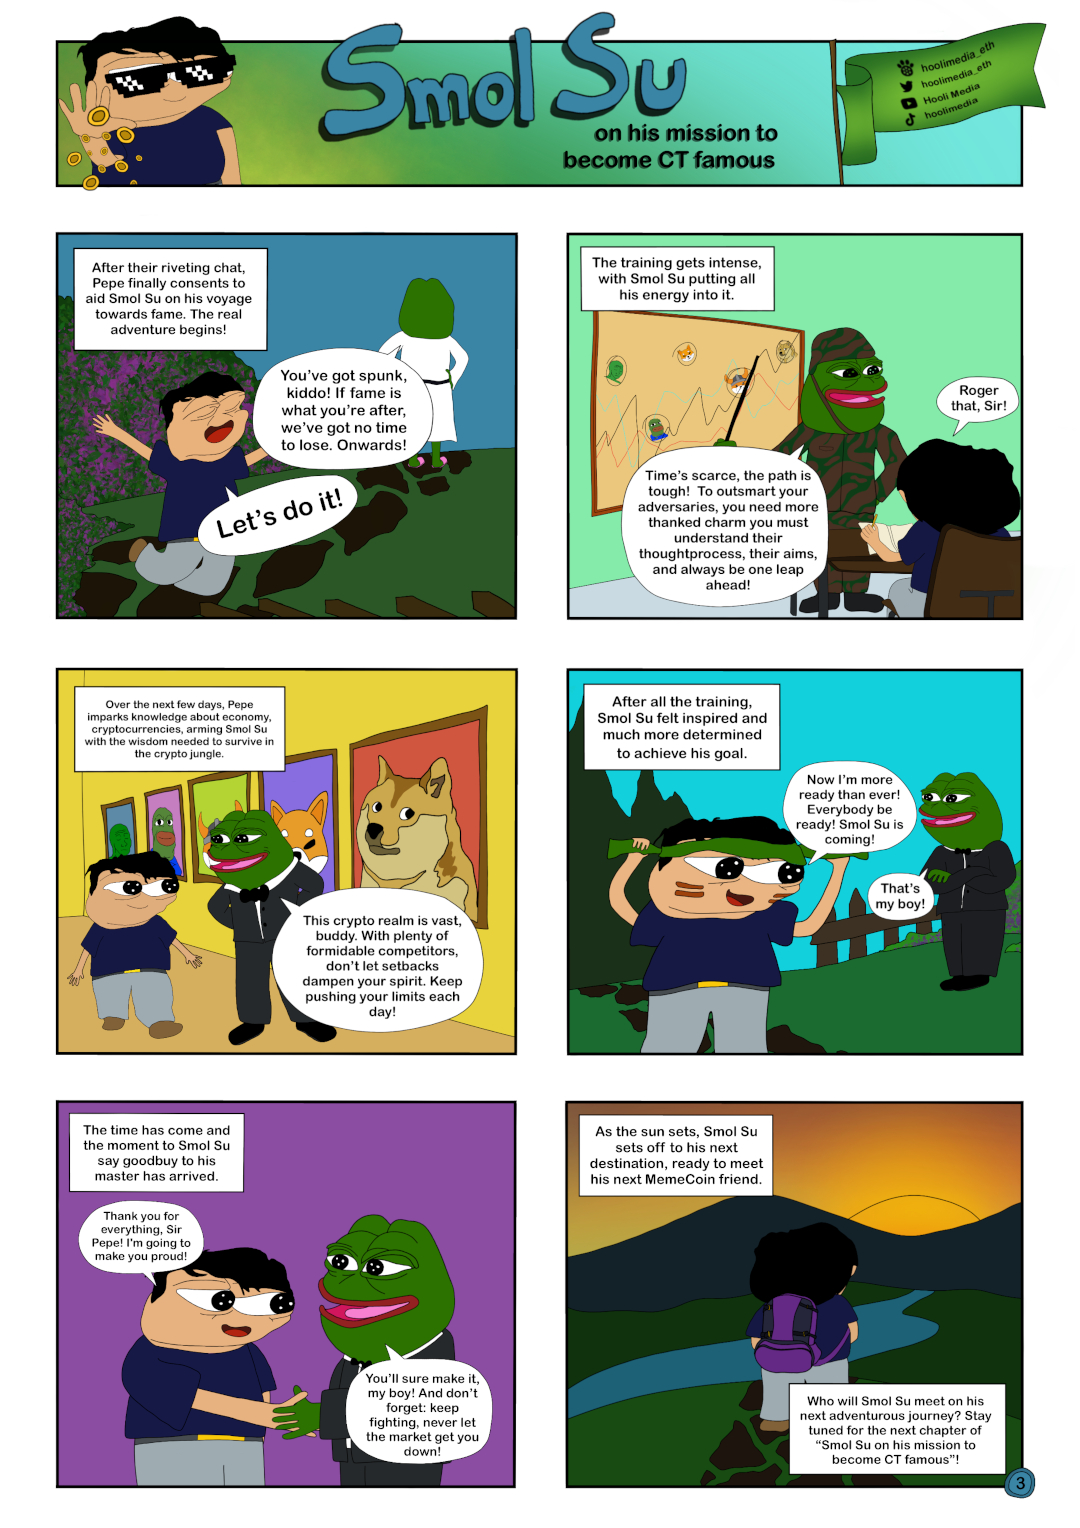
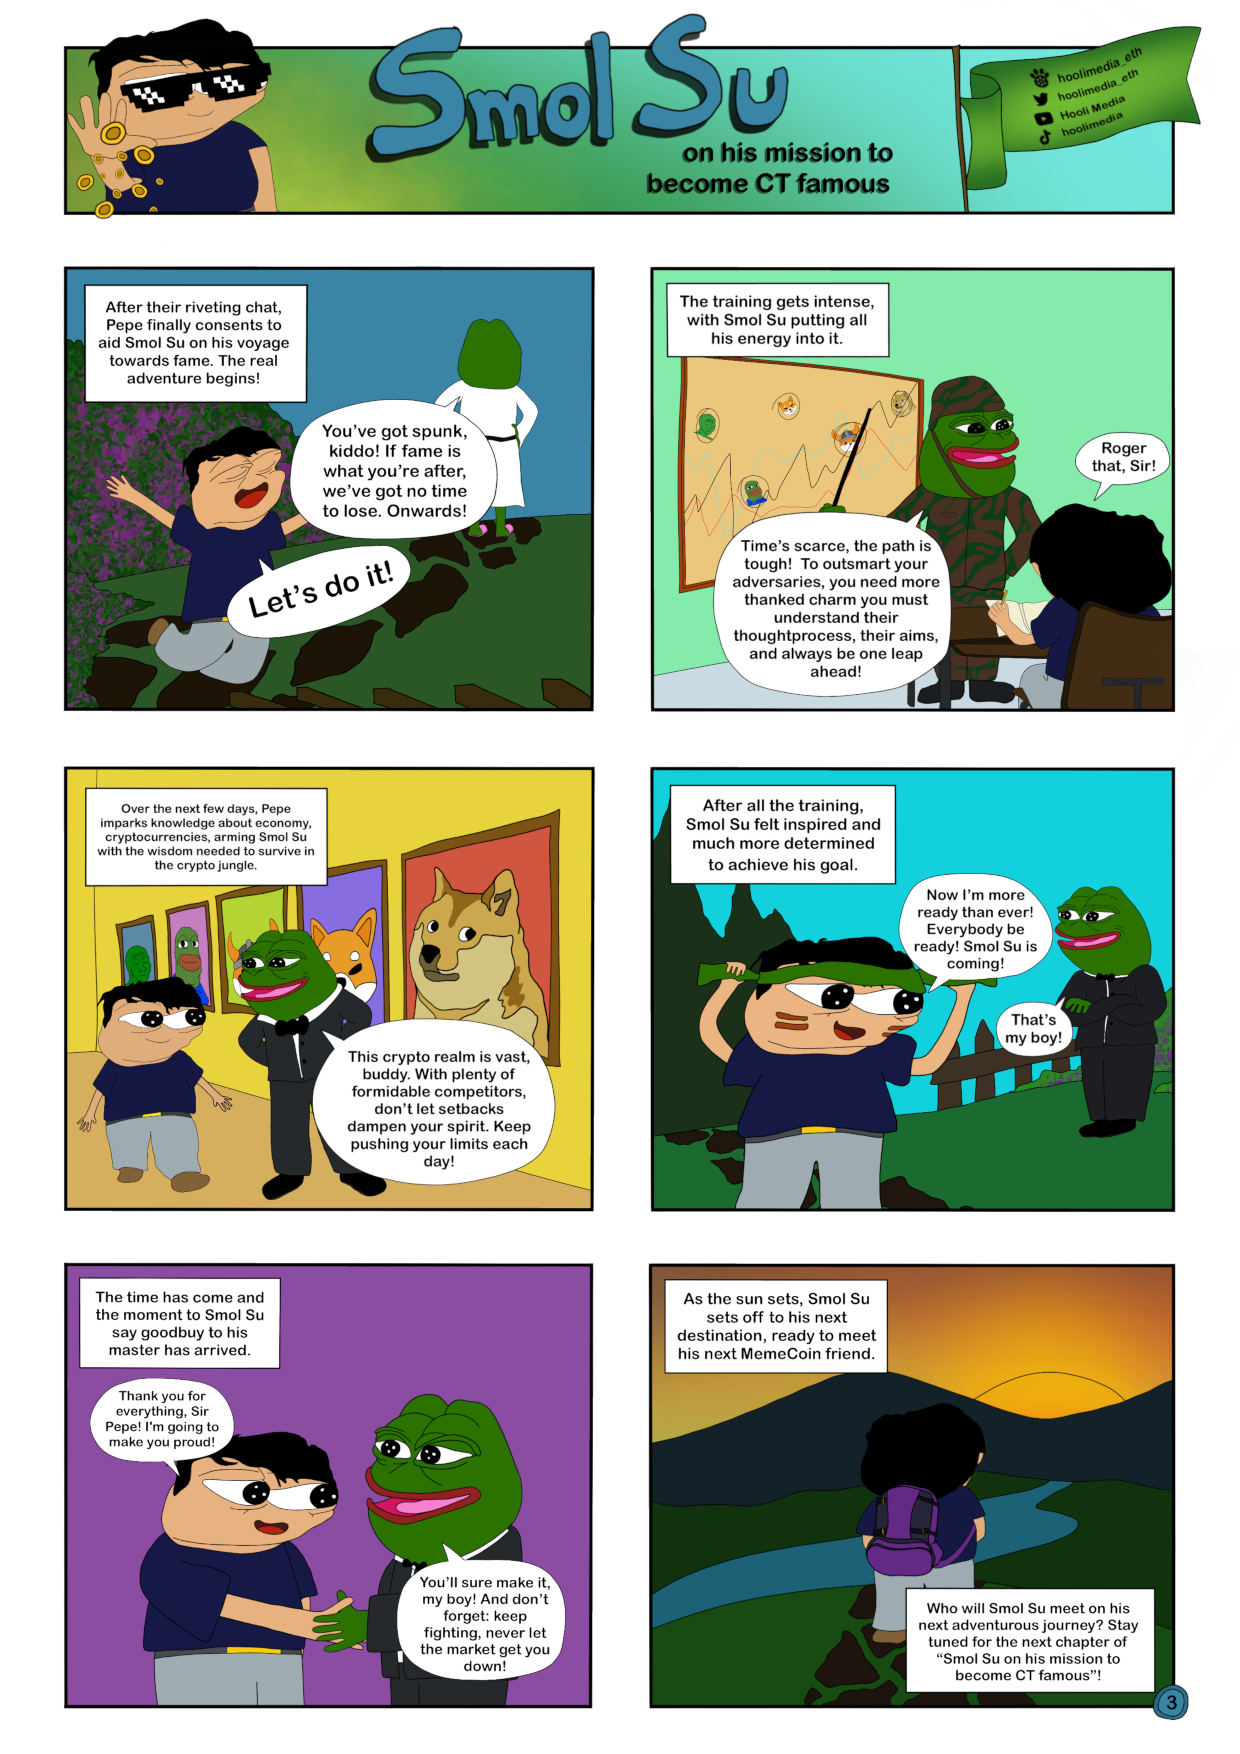
resized images

diff --git a/comics/README.md b/comics/README.md
@@ -1,4 +1,4 @@
-1) Scale down image to height 1080
+1) Scale down image to height 1240
 2) Change filetype to jpg
 3) Store original png in original folder
 4) Scale down same image to size 400 x 566
